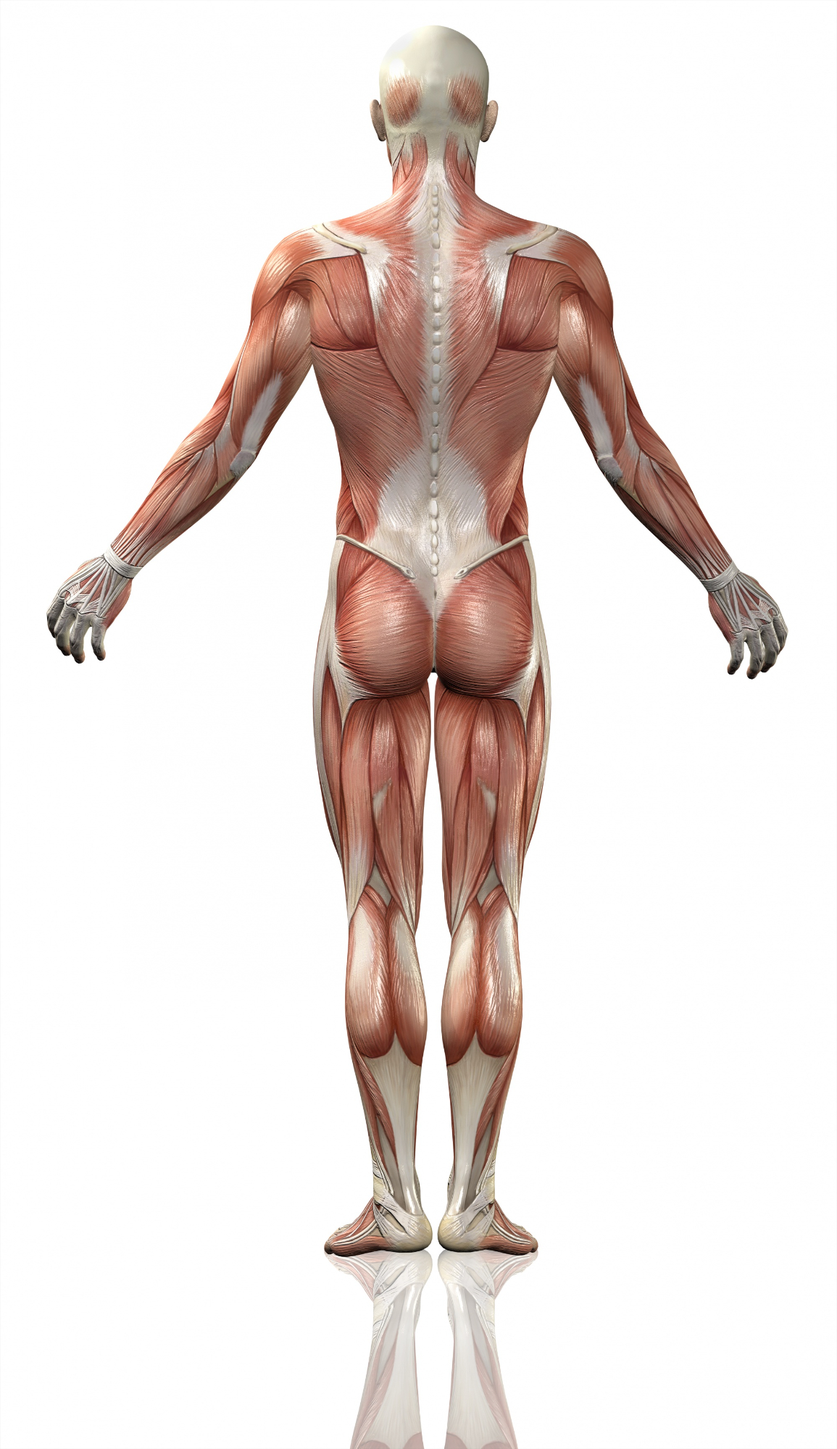
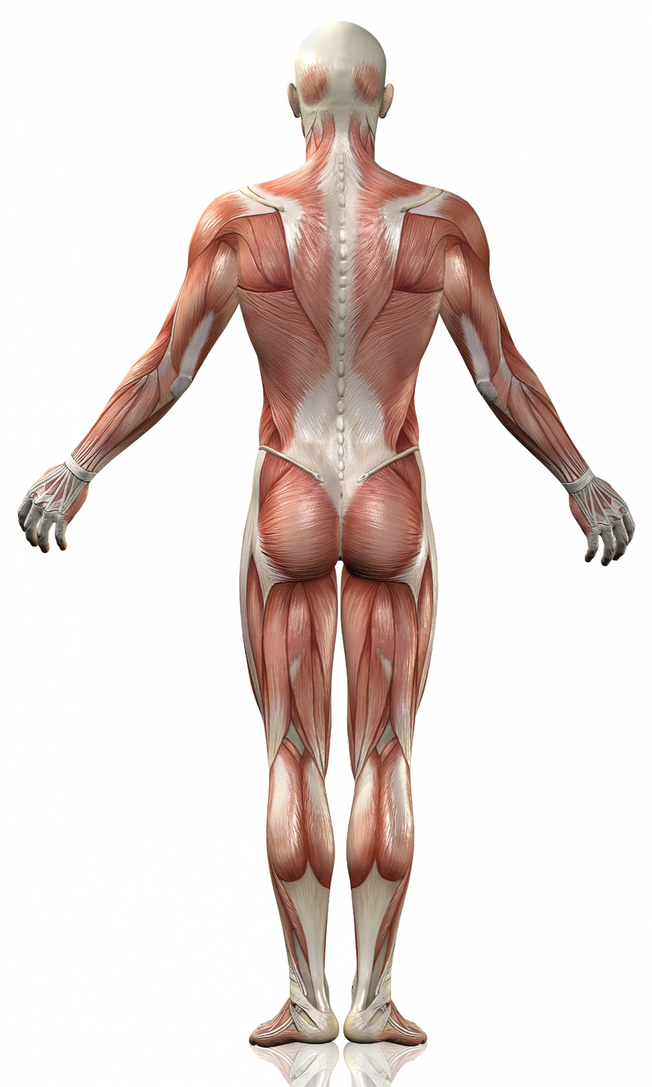
Enhance body map functionality with updated anatomy images and improved region specifications

Changed region(s): [[0.0311, 0.0307, 0.9956, 1.0]]

diff --git a/js/bodymap.js b/js/bodymap.js
@@ -1,14 +1,27 @@
 /*
  * PAIN SCORE — interactive body map (static SVG, frontend-only).
  *
- * Builds two stylized anatomical figures (anterior / posterior) from point
- * arrays. Every hotspot region maps to a taxonomy module (+ optional
- * structure). No backend, no AI — this is pure navigation.
+ * Two photographic anatomy images (anterior / posterior) with clickable
+ * hotspot regions traced on top of them. Both images are 900x1500 px
+ * (aspect 3:5) and every coordinate below lives in the same 600x1000
+ * viewBox, so the hotspots and the picture can never drift apart.
+ *
+ * Coordinates: midline regions list the figure's RIGHT half (screen right),
+ * first and last point on the body axis, and are mirrored to a full loop.
+ * `pair` regions list the full screen-right loop and are mirrored for the
+ * other side. `ax` overrides the mirror axis for a region (the figures are
+ * not perfectly symmetric). Every hotspot maps to a taxonomy module
+ * (+ optional structure). No backend, no AI — pure navigation.
  */
 (function () {
   'use strict';
 
-  var W = 360;
+  var VBW = 600, VBH = 1000;
+  var AXIS = { front: 302, back: 312 };           // body midline x per view
+  var IMAGES = {
+    front: 'images/anatomy-front.png',
+    back:  'images/anatomy-back.png'
+  };
 
   function unit(a, b) {
     var dx = b[0] - a[0], dy = b[1] - a[1];
@@ -33,24 +46,25 @@
     return d + ' Z';
   }
 
-  /* Right half including both centre-line endpoints -> symmetric full loop. */
-  function sym(pts) {
+  /* Right half including both axis endpoints -> symmetric full loop. */
+  function sym(pts, ax) {
     var full = pts.slice();
-    for (var i = pts.length - 2; i >= 1; i--) full.push([W - pts[i][0], pts[i][1]]);
+    for (var i = pts.length - 2; i >= 1; i--) full.push([2 * ax - pts[i][0], pts[i][1]]);
     return full;
   }
-  function mir(pts) { return pts.map(function (p) { return [W - p[0], p[1]]; }); }
 
-  /* Expand a paired (side 'r') spec into right + left. */
-  function expand(specs) {
+  /* Expand specs: paired regions become right + left, midline regions get their axis. */
+  function expand(specs, defaultAx) {
     var out = [];
     specs.forEach(function (s) {
-      if (!s.pair) { out.push(s); return; }
-      var r = Object.assign({}, s, { id: s.id + '-r', side: 'r' });
+      var ax = s.ax !== undefined ? s.ax : defaultAx;
+      function m(x) { return 2 * ax - x; }
+      if (!s.pair) { out.push(Object.assign({}, s, { ax: ax })); return; }
+      var r = Object.assign({}, s, { id: s.id + '-r', side: 'r', ax: ax });
       var l = Object.assign({}, s, {
-        id: s.id + '-l', side: 'l',
-        pts: s.pts ? mir(s.pts) : undefined,
-        cx: s.cx !== undefined ? W - s.cx : undefined
+        id: s.id + '-l', side: 'l', ax: ax,
+        pts: s.pts ? s.pts.map(function (p) { return [m(p[0]), p[1]]; }) : undefined,
+        cx: s.cx !== undefined ? m(s.cx) : undefined
       });
       out.push(r, l);
     });
@@ -66,141 +80,59 @@
   }
 
   /* ---------------------------------------------------------------- *
-   * ANTERIOR (FRONT) VIEW                                            *
+   * ANTERIOR (FRONT) VIEW — traced on images/anatomy-front.png       *
    * ---------------------------------------------------------------- */
   var FRONT_SPECS = expand([
-    { id: 'scalp', label: 'Scalp / Cranium', labelAr: 'فروة الرأس / القحف', module: 'head-face', structure: 'Scalp',
-      pts: [[180, 26], [196, 28], [214, 38], [228, 58], [236, 86], [232, 102], [216, 108], [196, 106], [180, 106]], r: 11 },
-    { id: 'face', label: 'Face', labelAr: 'الوجه', module: 'head-face', structure: 'Facial Pain',
-      pts: [[180, 106], [198, 110], [214, 122], [222, 142], [214, 158], [196, 168], [180, 170]], r: 8 },
-    { id: 'jaw', label: 'Jaw', labelAr: 'الفك', module: 'head-face', structure: 'Jaw',
-      pts: [[180, 150], [196, 153], [210, 163], [206, 177], [192, 183], [180, 183]], r: 6 },
-    { id: 'neck', label: 'Neck', labelAr: 'الرقبة', module: 'neck',
-      pts: [[180, 158], [198, 162], [204, 182], [200, 204], [180, 206]], r: 8 },
-    { id: 'chest', label: 'Chest', labelAr: 'الصدر', module: 'chest',
-      pts: [[180, 200], [200, 204], [222, 214], [246, 220], [264, 236], [268, 258], [258, 280], [244, 292], [226, 296], [204, 296], [180, 296]], r: 12 },
-    { id: 'abdomen', label: 'Abdomen', labelAr: 'البطن', module: 'abdomen',
-      pts: [[180, 292], [202, 293], [226, 295], [246, 298], [253, 306], [254, 330], [250, 356], [244, 382], [232, 402], [210, 410], [180, 412]], r: 10 },
-    { id: 'pelvis', label: 'Pelvis', labelAr: 'الحوض', module: 'pelvis-repro',
-      pts: [[180, 410], [210, 414], [230, 426], [240, 448], [238, 472], [226, 494], [208, 506], [192, 512], [180, 513]], r: 8 },
-    { id: 'genital', label: 'Genital region', labelAr: 'المنطقة التناسلية', module: 'pelvis-repro', shape: 'ellipse',
-      cx: 180, cy: 520, rx: 21, ry: 13 },
-    { id: 'flank', label: 'Flank (kidney angle)', labelAr: 'الخاصرة (زاوية الكلية)', module: 'urinary', structure: 'Kidney', pair: true,
-      pts: [[236, 300], [254, 306], [260, 340], [254, 376], [240, 398], [228, 398], [232, 356], [230, 318]], r: 8 },
-    { id: 'shoulder', label: 'Shoulder', labelAr: 'الكتف', module: 'upper-limb', pair: true,
-      pts: [[262, 196], [274, 216], [274, 244], [262, 262], [246, 258], [240, 236], [246, 212]], r: 11 },
-    { id: 'upperarm', label: 'Upper arm', labelAr: 'العضد', module: 'upper-limb', structure: 'Upper Arm', pair: true,
-      pts: [[246, 236], [272, 246], [278, 300], [272, 356], [260, 380], [248, 378], [246, 320], [244, 270]], r: 9 },
-    { id: 'elbow', label: 'Elbow', labelAr: 'المرفق', module: 'upper-limb', structure: 'Elbow', pair: true,
-      pts: [[248, 378], [272, 356], [278, 382], [270, 406], [254, 408], [244, 394]], r: 6 },
-    { id: 'forearm', label: 'Forearm', labelAr: 'الساعد', module: 'upper-limb', structure: 'Forearm', pair: true,
-      pts: [[254, 408], [270, 406], [274, 460], [268, 514], [258, 532], [246, 530], [246, 470], [246, 416]], r: 9 },
-    { id: 'wrist', label: 'Wrist', labelAr: 'الرسغ', module: 'upper-limb', structure: 'Wrist', pair: true,
-      pts: [[246, 530], [268, 514], [274, 530], [266, 544], [250, 546], [242, 540]], r: 5 },
-    { id: 'hand', label: 'Hand', labelAr: 'اليد', module: 'upper-limb', structure: 'Hand', pair: true,
-      pts: [[250, 546], [266, 544], [274, 572], [268, 610], [254, 624], [242, 618], [242, 582], [244, 560]], r: 8 },
-    { id: 'fingers', label: 'Fingers', labelAr: 'الأصابع', module: 'upper-limb', structure: 'Fingers', pair: true,
-      pts: [[244, 618], [268, 610], [274, 636], [266, 652], [248, 654], [240, 644]], r: 5 },
-    { id: 'hip', label: 'Hip', labelAr: 'الورك', module: 'lower-limb', structure: 'Hip', pair: true,
-      pts: [[240, 448], [256, 454], [264, 480], [261, 506], [247, 514], [233, 496], [230, 470]], r: 8 },
-    { id: 'thigh', label: 'Thigh', labelAr: 'الفخذ', module: 'lower-limb', structure: 'Thigh', pair: true,
-      pts: [[244, 506], [258, 509], [263, 548], [258, 612], [240, 628], [228, 612], [230, 558], [231, 516]], r: 11 },
-    { id: 'knee', label: 'Knee', labelAr: 'الركبة', module: 'lower-limb', structure: 'Knee', pair: true,
-      pts: [[228, 612], [258, 612], [262, 646], [254, 672], [236, 676], [226, 652], [224, 630]], r: 7 },
-    { id: 'lowerleg', label: 'Lower leg', labelAr: 'الساق', module: 'lower-limb', structure: 'Lower Leg', pair: true,
-      pts: [[226, 652], [254, 672], [258, 724], [248, 782], [236, 794], [226, 790], [222, 742], [222, 676]], r: 9 },
-    { id: 'ankle', label: 'Ankle', labelAr: 'الكاحل', module: 'lower-limb', structure: 'Ankle', pair: true,
-      pts: [[226, 790], [248, 782], [254, 802], [246, 818], [230, 820], [220, 808]], r: 5 },
-    { id: 'foot', label: 'Foot', labelAr: 'القدم', module: 'lower-limb', structure: 'Foot', pair: true,
-      pts: [[220, 818], [250, 820], [258, 842], [250, 858], [230, 860], [216, 848], [214, 830]], r: 7 },
-    { id: 'toes', label: 'Toes', labelAr: 'أصابع القدم', module: 'lower-limb', structure: 'Toes', pair: true,
-      pts: [[230, 856], [258, 844], [262, 860], [254, 872], [234, 874], [222, 868]], r: 5 },
-    /* Facial overlay hotspots */
-    { id: 'eye', label: 'Eye', labelAr: 'العين', module: 'eye', structure: 'Eye', pair: true, shape: 'ellipse',
-      cx: 202, cy: 124, rx: 16, ry: 11 },
-    { id: 'ear', label: 'Ear', labelAr: 'الأذن', module: 'ent', structure: 'Ear', pair: true, shape: 'ellipse',
-      cx: 232, cy: 122, rx: 10, ry: 15 },
-    { id: 'nose', label: 'Nose', labelAr: 'الأنف', module: 'ent', structure: 'Nose', shape: 'ellipse',
-      cx: 180, cy: 140, rx: 11, ry: 13 },
-    { id: 'cheek', label: 'Cheek / sinus region', labelAr: 'الخد / منطقة الجيب', module: 'ent', structure: 'Sinuses', pair: true, shape: 'ellipse',
-      cx: 212, cy: 146, rx: 12, ry: 10 },
-    { id: 'mouth', label: 'Mouth & dental', labelAr: 'الفم والأسنان', module: 'head-face', structure: 'Mouth & Dental', shape: 'ellipse',
-      cx: 180, cy: 158, rx: 18, ry: 10 }
-  ]);
-
-  /* Decorative facial features (non-interactive). */
-  var FRONT_DECOR = [
-    { el: 'ellipse', cx: 158, cy: 124, rx: 11, ry: 7 },
-    { el: 'ellipse', cx: 202, cy: 124, rx: 11, ry: 7 },
-    { el: 'path', d: 'M146 112 Q158 104 170 112' },
-    { el: 'path', d: 'M190 112 Q202 104 214 112' },
-    { el: 'path', d: 'M180 130 L175 142 Q180 147 185 142' },
-    { el: 'path', d: 'M162 156 Q180 164 198 156' }
-  ];
-
-  var FRONT_TAGS = [
-    { x: 180, y: 66, t: 'HEAD', tAr: 'الرأس' },
-    { x: 180, y: 250, t: 'CHEST', tAr: 'الصدر' },
-    { x: 180, y: 354, t: 'ABDOMEN', tAr: 'البطن' },
-    { x: 180, y: 452, t: 'PELVIS', tAr: 'الحوض' },
-    { x: 262, y: 312, t: 'ARM', tAr: 'الذراع' },
-    { x: 262, y: 572, t: 'HAND', tAr: 'اليد' },
-    { x: 248, y: 570, t: 'THIGH', tAr: 'الفخذ' },
-    { x: 240, y: 730, t: 'LEG', tAr: 'الساق' }
-  ];
+    { id: "scalp", label: "Scalp / Cranium", labelAr: "فروة الرأس / القحف", module: "head-face", structure: "Scalp", ax: 300, pts: [[300,18], [322,22], [337,38], [342,58], [338,68], [318,64], [300,63]], r: 8 },
+    { id: "face", label: "Face", labelAr: "الوجه", module: "head-face", structure: "Facial Pain", ax: 300, pts: [[300,63], [318,64], [338,68], [336,92], [328,112], [316,126], [300,130]], r: 8 },
+    { id: "jaw", label: "Jaw", labelAr: "الفك", module: "head-face", structure: "Jaw", ax: 300, pts: [[300,110], [324,106], [330,116], [318,128], [300,132]], r: 6 },
+    { id: "neck", label: "Neck", labelAr: "الرقبة", module: "neck", ax: 300, pts: [[300,128], [322,130], [330,152], [342,176], [322,184], [300,186]], r: 8 },
+    { id: "chest", label: "Chest", labelAr: "الصدر", module: "chest", pts: [[302,180], [345,184], [385,190], [398,226], [396,262], [394,290], [302,292]], r: 12 },
+    { id: "abdomen", label: "Abdomen", labelAr: "البطن", module: "abdomen", pts: [[302,290], [398,290], [392,318], [386,340], [382,370], [383,400], [382,424], [366,438], [336,448], [302,452]], r: 10 },
+    { id: "pelvis", label: "Pelvis", labelAr: "الحوض", module: "pelvis-repro", pts: [[302,448], [352,440], [380,444], [390,460], [395,480], [372,504], [332,512], [302,512]], r: 8 },
+    { id: "genital", label: "Genital region", labelAr: "المنطقة التناسلية", module: "pelvis-repro", shape: 'ellipse', cx: 302, cy: 512, rx: 16, ry: 13 },
+    { id: "flank", label: "Flank (kidney angle)", labelAr: "الخاصرة (زاوية الكلية)", module: "urinary", structure: "Kidney", pair: true, pts: [[372,304], [392,316], [386,340], [381,372], [383,400], [376,414], [362,398], [366,356], [368,324]], r: 8 },
+    { id: "shoulder", label: "Shoulder", labelAr: "الكتف", module: "upper-limb", pair: true, pts: [[384,182], [420,186], [446,204], [458,232], [462,268], [464,292], [408,292], [396,250], [388,214]], r: 10 },
+    { id: "upperarm", label: "Upper arm", labelAr: "العضد", module: "upper-limb", structure: "Upper Arm", pair: true, ax: 301, pts: [[410,292], [466,292], [472,320], [474,345], [486,365], [496,384], [438,390], [432,360], [420,330], [412,308]], r: 9 },
+    { id: "elbow", label: "Elbow", labelAr: "المرفق", module: "upper-limb", structure: "Elbow", pair: true, ax: 301, pts: [[437,384], [497,382], [503,408], [503,430], [446,430], [437,408]], r: 6 },
+    { id: "forearm", label: "Forearm", labelAr: "الساعد", module: "upper-limb", structure: "Forearm", pair: true, ax: 301, pts: [[451,428], [502,428], [503,460], [505,490], [470,492], [463,462], [452,440]], r: 9 },
+    { id: "wrist", label: "Wrist", labelAr: "الرسغ", module: "upper-limb", structure: "Wrist", pair: true, ax: 301, pts: [[470,490], [506,490], [508,508], [506,526], [480,528], [472,510]], r: 5 },
+    { id: "hand", label: "Hand", labelAr: "اليد", module: "upper-limb", structure: "Hand", pair: true, ax: 301, pts: [[444,514], [476,526], [508,526], [513,552], [514,566], [476,566], [474,548], [450,534]], r: 8 },
+    { id: "fingers", label: "Fingers", labelAr: "الأصابع", module: "upper-limb", structure: "Fingers", pair: true, ax: 301, pts: [[476,562], [514,562], [512,580], [503,596], [478,594], [473,578]], r: 5 },
+    { id: "hip", label: "Hip", labelAr: "الورك", module: "lower-limb", structure: "Hip", pair: true, pts: [[376,456], [392,462], [396,482], [402,502], [402,540], [384,548], [368,520], [366,486]], r: 8 },
+    { id: "thigh", label: "Thigh", labelAr: "الفخذ", module: "lower-limb", structure: "Thigh", pair: true, pts: [[310,520], [368,524], [402,540], [402,600], [398,650], [394,690], [343,694], [330,660], [321,600], [312,545]], r: 10 },
+    { id: "knee", label: "Knee", labelAr: "الركبة", module: "lower-limb", structure: "Knee", pair: true, ax: 303, pts: [[341,690], [394,690], [397,716], [401,742], [336,742], [339,718]], r: 7 },
+    { id: "lowerleg", label: "Lower leg", labelAr: "الساق", module: "lower-limb", structure: "Lower Leg", pair: true, ax: 306, pts: [[336,744], [402,744], [406,770], [404,792], [398,826], [394,860], [392,892], [360,898], [354,852], [344,820], [337,790], [335,764]], r: 9 },
+    { id: "ankle", label: "Ankle", labelAr: "الكاحل", module: "lower-limb", structure: "Ankle", pair: true, ax: 306, pts: [[359,888], [393,888], [398,906], [400,920], [359,920]], r: 5 },
+    { id: "foot", label: "Foot", labelAr: "القدم", module: "lower-limb", structure: "Foot", pair: true, ax: 312, pts: [[358,914], [398,914], [410,930], [422,944], [400,948], [392,960], [366,962], [358,942]], r: 7 },
+    { id: "toes", label: "Toes", labelAr: "أصابع القدم", module: "lower-limb", structure: "Toes", pair: true, ax: 312, pts: [[400,946], [428,946], [438,958], [434,968], [402,968], [392,958]], r: 5 },
+    { id: "eye", label: "Eye", labelAr: "العين", module: "eye", structure: "Eye", pair: true, shape: 'ellipse', ax: 304.5, cx: 322, cy: 68, rx: 13, ry: 9 },
+    { id: "ear", label: "Ear", labelAr: "الأذن", module: "ent", structure: "Ear", pair: true, shape: 'ellipse', ax: 299, cx: 341, cy: 78, rx: 8, ry: 15 },
+    { id: "nose", label: "Nose", labelAr: "الأنف", module: "ent", structure: "Nose", shape: 'ellipse', cx: 304, cy: 88, rx: 9, ry: 14 },
+    { id: "cheek", label: "Cheek / sinus region", labelAr: "الخد / منطقة الجيب", module: "ent", structure: "Sinuses", pair: true, shape: 'ellipse', ax: 304.5, cx: 324, cy: 92, rx: 11, ry: 10 },
+    { id: "mouth", label: "Mouth & dental", labelAr: "الفم والأسنان", module: "head-face", structure: "Mouth & Dental", shape: 'ellipse', cx: 304, cy: 108, rx: 16, ry: 8 }
+  ], AXIS.front);
 
   /* ---------------------------------------------------------------- *
-   * POSTERIOR (BACK) VIEW                                            *
+   * POSTERIOR (BACK) VIEW — traced on images/anatomy-back.png        *
    * ---------------------------------------------------------------- */
   var BACK_SPECS = expand([
-    { id: 'head-back', label: 'Occiput / back of head', labelAr: 'القفا / مؤخرة الرأس', module: 'head-face', structure: 'Scalp',
-      pts: [[180, 26], [198, 30], [218, 42], [232, 64], [236, 90], [232, 110], [222, 136], [206, 148], [180, 150]], r: 13 },
-    { id: 'neck-back', label: 'Neck (posterior)', labelAr: 'الرقبة (الخلفية)', module: 'neck',
-      pts: [[180, 146], [198, 150], [204, 178], [200, 206], [180, 208]], r: 8 },
-    { id: 'upper-back', label: 'Upper / mid back', labelAr: 'أعلى / وسط الظهر', module: 'back', structure: 'Thoracic Spine',
-      pts: [[180, 200], [200, 204], [224, 216], [248, 222], [266, 240], [270, 262], [260, 284], [246, 294], [226, 298], [204, 298], [180, 298]], r: 13 },
-    { id: 'lumbar', label: 'Lower back', labelAr: 'أسفل الظهر', module: 'back', structure: 'Lumbar Spine',
-      pts: [[180, 292], [204, 293], [228, 295], [247, 298], [252, 308], [252, 336], [246, 366], [234, 392], [212, 404], [180, 406]], r: 11 },
-    { id: 'sacrum', label: 'Sacrum', labelAr: 'العجز', module: 'back', structure: 'Sacral',
-      pts: [[180, 408], [208, 412], [226, 426], [232, 450], [222, 470], [200, 478], [180, 480]], r: 9 },
-    { id: 'buttock', label: 'Buttock / sacroiliac region', labelAr: 'الآلية / منطقة الحرقفي العجزي', module: 'back', structure: 'Sacral', pair: true,
-      pts: [[232, 450], [248, 452], [258, 478], [252, 504], [238, 514], [224, 502], [222, 476]], r: 11 },
-    { id: 'shoulder', label: 'Shoulder', labelAr: 'الكتف', module: 'upper-limb', pair: true,
-      pts: [[260, 198], [272, 218], [272, 246], [260, 264], [246, 260], [240, 238], [246, 214]], r: 11 },
-    { id: 'upperarm', label: 'Upper arm', labelAr: 'العضد', module: 'upper-limb', structure: 'Upper Arm', pair: true,
-      pts: [[246, 238], [270, 248], [276, 302], [270, 358], [258, 382], [246, 380], [246, 322], [244, 272]], r: 9 },
-    { id: 'elbow', label: 'Elbow', labelAr: 'المرفق', module: 'upper-limb', structure: 'Elbow', pair: true,
-      pts: [[248, 380], [270, 358], [276, 384], [268, 408], [254, 410], [244, 396]], r: 6 },
-    { id: 'forearm', label: 'Forearm', labelAr: 'الساعد', module: 'upper-limb', structure: 'Forearm', pair: true,
-      pts: [[252, 410], [268, 408], [272, 462], [266, 516], [256, 534], [246, 532], [246, 472], [246, 420]], r: 9 },
-    { id: 'hand', label: 'Hand', labelAr: 'اليد', module: 'upper-limb', structure: 'Hand', pair: true,
-      pts: [[250, 548], [264, 546], [272, 574], [266, 612], [254, 626], [242, 620], [242, 584], [244, 562]], r: 8 },
-    { id: 'thigh', label: 'Thigh', labelAr: 'الفخذ', module: 'lower-limb', structure: 'Thigh', pair: true,
-      pts: [[244, 506], [258, 509], [263, 548], [258, 612], [240, 628], [228, 612], [230, 558], [231, 516]], r: 11 },
-    { id: 'knee', label: 'Knee', labelAr: 'الركبة', module: 'lower-limb', structure: 'Knee', pair: true,
-      pts: [[228, 612], [258, 612], [262, 646], [254, 672], [236, 676], [226, 652], [224, 630]], r: 7 },
-    { id: 'lowerleg', label: 'Lower leg', labelAr: 'الساق', module: 'lower-limb', structure: 'Lower Leg', pair: true,
-      pts: [[226, 652], [254, 672], [258, 724], [248, 782], [236, 794], [226, 790], [222, 742], [222, 676]], r: 9 },
-    { id: 'foot', label: 'Foot (posterior / heel)', labelAr: 'القدم (الخلفية / الكعب)', module: 'lower-limb', structure: 'Foot', pair: true,
-      pts: [[220, 818], [250, 820], [258, 844], [250, 862], [230, 864], [216, 852], [214, 832]], r: 7 }
-  ]);
-
-  var BACK_DECOR = [
-    { el: 'path', d: 'M180 210 L180 400' },
-    { el: 'path', d: 'M180 412 L180 476' },
-    { el: 'path', d: 'M206 232 Q224 246 222 274' },
-    { el: 'path', d: 'M154 232 Q136 246 138 274' }
-  ];
-
-  var BACK_TAGS = [
-    { x: 180, y: 66, t: 'HEAD', tAr: 'الرأس' },
-    { x: 180, y: 250, t: 'UPPER BACK', tAr: 'أعلى الظهر' },
-    { x: 180, y: 354, t: 'LOWER BACK', tAr: 'أسفل الظهر' },
-    { x: 180, y: 446, t: 'SACRUM', tAr: 'العجز' },
-    { x: 262, y: 312, t: 'ARM', tAr: 'الذراع' },
-    { x: 248, y: 570, t: 'THIGH', tAr: 'الفخذ' },
-    { x: 240, y: 730, t: 'LEG', tAr: 'الساق' }
-  ];
+    { id: "head-back", label: "Occiput / back of head", labelAr: "القفا / مؤخرة الرأس", module: "head-face", structure: "Scalp", pts: [[312,18], [332,24], [349,40], [358,62], [362,84], [356,106], [346,122], [312,130]], r: 13 },
+    { id: "neck-back", label: "Neck (posterior)", labelAr: "الرقبة (الخلفية)", module: "neck", pts: [[312,120], [338,124], [346,148], [354,168], [330,184], [312,188]], r: 8 },
+    { id: "upper-back", label: "Upper / mid back", labelAr: "أعلى / وسط الظهر", module: "back", structure: "Thoracic Spine", pts: [[312,176], [372,182], [400,198], [404,240], [404,282], [400,300], [392,318], [388,330], [312,334]], r: 13 },
+    { id: "lumbar", label: "Lower back", labelAr: "أسفل الظهر", module: "back", structure: "Lumbar Spine", pts: [[312,330], [388,330], [384,350], [381,375], [385,396], [386,412], [312,414]], r: 11 },
+    { id: "sacrum", label: "Sacrum", labelAr: "العجز", module: "back", structure: "Sacral", pts: [[312,408], [342,412], [354,436], [346,466], [312,480]], r: 9 },
+    { id: "buttock", label: "Buttock / sacroiliac region", labelAr: "الآلية / منطقة الحرقفي العجزي", module: "back", structure: "Sacral", pair: true, pts: [[352,424], [388,426], [396,456], [400,500], [402,530], [386,544], [346,546], [322,536], [316,500], [318,462], [330,438]], r: 11 },
+    { id: "shoulder", label: "Shoulder", labelAr: "الكتف", module: "upper-limb", pair: true, pts: [[400,186], [432,190], [450,212], [453,244], [457,270], [463,288], [418,296], [404,270], [402,230]], r: 10 },
+    { id: "upperarm", label: "Upper arm", labelAr: "العضد", module: "upper-limb", structure: "Upper Arm", pair: true, ax: 308, pts: [[410,296], [468,290], [474,316], [484,334], [494,348], [440,350], [430,336], [420,316], [411,302]], r: 9 },
+    { id: "elbow", label: "Elbow", labelAr: "المرفق", module: "upper-limb", structure: "Elbow", pair: true, ax: 305, pts: [[434,346], [494,346], [503,362], [512,378], [518,392], [462,394], [450,376], [440,360]], r: 6 },
+    { id: "forearm", label: "Forearm", labelAr: "الساعد", module: "upper-limb", structure: "Forearm", pair: true, ax: 302, pts: [[462,394], [518,390], [526,406], [536,421], [546,436], [508,438], [492,420], [476,406]], r: 9 },
+    { id: "hand", label: "Hand", labelAr: "اليد", module: "upper-limb", structure: "Hand", pair: true, ax: 300, pts: [[507,436], [546,436], [566,450], [578,466], [584,484], [582,498], [572,514], [548,512], [540,498], [528,476], [516,456]], r: 8 },
+    { id: "thigh", label: "Thigh", labelAr: "الفخذ", module: "lower-limb", structure: "Thigh", pair: true, pts: [[314,544], [386,540], [402,556], [399,580], [397,600], [393,622], [388,642], [382,662], [378,684], [322,688], [319,650], [318,610], [314,570]], r: 11 },
+    { id: "knee", label: "Knee", labelAr: "الركبة", module: "lower-limb", structure: "Knee", pair: true, pts: [[320,676], [380,676], [378,700], [376,728], [326,728], [322,702]], r: 7 },
+    { id: "lowerleg", label: "Lower leg", labelAr: "الساق", module: "lower-limb", structure: "Lower Leg", pair: true, pts: [[326,726], [378,726], [381,760], [381,784], [377,806], [370,836], [364,866], [359,896], [326,898], [326,870], [324,830], [320,790], [320,756]], r: 9 },
+    { id: "foot", label: "Foot (posterior / heel)", labelAr: "القدم (الخلفية / الكعب)", module: "lower-limb", structure: "Foot", pair: true, pts: [[322,898], [360,898], [364,920], [380,940], [394,956], [392,966], [326,968], [318,946], [322,920]], r: 7 }
+  ], AXIS.back);
 
   /* ---------------------------------------------------------------- *
    * Builder                                                          *
@@ -210,11 +142,11 @@
     if (spec.shape === 'ellipse') {
       el = makeEl('ellipse', { cx: spec.cx, cy: spec.cy, rx: spec.rx, ry: spec.ry });
     } else if (spec.pair) {
-      /* Paired limb outlines are already a complete loop (right side). */
+      /* Paired outlines are already a complete loop on their own side. */
       el = makeEl('path', { d: smooth(spec.pts, spec.r || 8) });
     } else {
       /* Midline specs are given as a right half -> mirror to a full loop. */
-      el = makeEl('path', { d: smooth(sym(spec.pts), spec.r || 8) });
+      el = makeEl('path', { d: smooth(sym(spec.pts, spec.ax), spec.r || 8) });
     }
     el.setAttribute('class', 'region');
     el.setAttribute('data-region', spec.id);
@@ -226,56 +158,27 @@
     return el;
   }
 
-
-
   function build(view) {
     var specs = view === 'back' ? BACK_SPECS : FRONT_SPECS;
-    var decor = view === 'back' ? BACK_DECOR : FRONT_DECOR;
-    var tags = view === 'back' ? BACK_TAGS : FRONT_TAGS;
 
     var svg = makeEl('svg', {
-      viewBox: '0 0 360 900', class: 'body-svg', 'data-view': view,
+      viewBox: '0 0 ' + VBW + ' ' + VBH, class: 'body-svg', 'data-view': view,
       role: 'img', 'aria-label': 'Human body, ' + (view === 'back' ? 'posterior' : 'anterior') + ' view'
     });
 
     var gBody = makeEl('g', { class: 'g-body' });
     svg.appendChild(gBody);
-
-    /* --- REMOVE THE OLD SILHOUETTE --- */
-    // gBody.appendChild(makeEl('ellipse', { cx: 180, cy: 445, rx: 122, ry: 428, class: 'silhouette' }));
-
-    /* --- ADD THIS: Insert high-res anatomical images --- */
-    var imagePath = view === 'back' ? 'images/anatomy-back.png' : 'images/anatomy-front.png';
-    gBody.appendChild(makeEl('image', { 
-        href: imagePath, 
-        width: 360, 
-        height: 900, 
-        x: 0, 
-        y: 0 
+    gBody.appendChild(makeEl('image', {
+      href: IMAGES[view], x: 0, y: 0, width: VBW, height: VBH,
+      preserveAspectRatio: 'xMidYMid meet'
     }));
 
-    specs.forEach(function (s) { gBody.appendChild(regionEl(s)); });
-
-    var gDecor = makeEl('g', { class: 'g-decor' });
-    svg.appendChild(gDecor);
-    decor.forEach(function (d) {
-      if (d.el === 'ellipse') gDecor.appendChild(makeEl('ellipse', { cx: d.cx, cy: d.cy, rx: d.rx, ry: d.ry }));
-      else gDecor.appendChild(makeEl('path', { d: d.d }));
-    });
-
-    var gTags = makeEl('g', { class: 'g-tags' });
-    svg.appendChild(gTags);
-    tags.forEach(function (t) {
-      if (!t.t) return;
-      var text = makeEl('text', { x: t.x, y: t.y, 'text-anchor': 'middle' });
-      text.textContent = (window.I18N && window.I18N.isAr() && t.tAr) ? t.tAr : t.t;
-      gTags.appendChild(text);
-    });
+    var gReg = makeEl('g', { class: 'g-regions' });
+    gBody.appendChild(gReg);
+    specs.forEach(function (s) { gReg.appendChild(regionEl(s)); });
 
     return svg;
   }
-
-
 
   function specsFor(view) { return view === 'back' ? BACK_SPECS : FRONT_SPECS; }
 

diff --git a/css/styles.css b/css/styles.css
@@ -840,3 +840,15 @@ html[dir="rtl"] .nrs-btn { direction: ltr; }
     stroke-width: 2px;
 }
 
+/* Image size: change this one value to make the body bigger/smaller */
+.body-view { max-width: 460px; }
+.loc-stage { max-width: 460px; }
+.body-stage { min-height: 520px; }
+.body-svg { width: 100%; height: auto; }
+.body-svg image { pointer-events: none; }
+.body-svg .g-tags { display: none; }
+
+.body-svg .region.current   { fill: rgba(14,124,134,.28); stroke: var(--primary-dark); stroke-width: 2.4px; }
+.body-svg .region.has-match { fill: rgba(255,217,122,.55); stroke: #c99a17; stroke-width: 2px; }
+.body-svg.calibrating .region { fill: rgba(14,124,134,.15); stroke: #0e7c86; stroke-width: 1px; }
+
